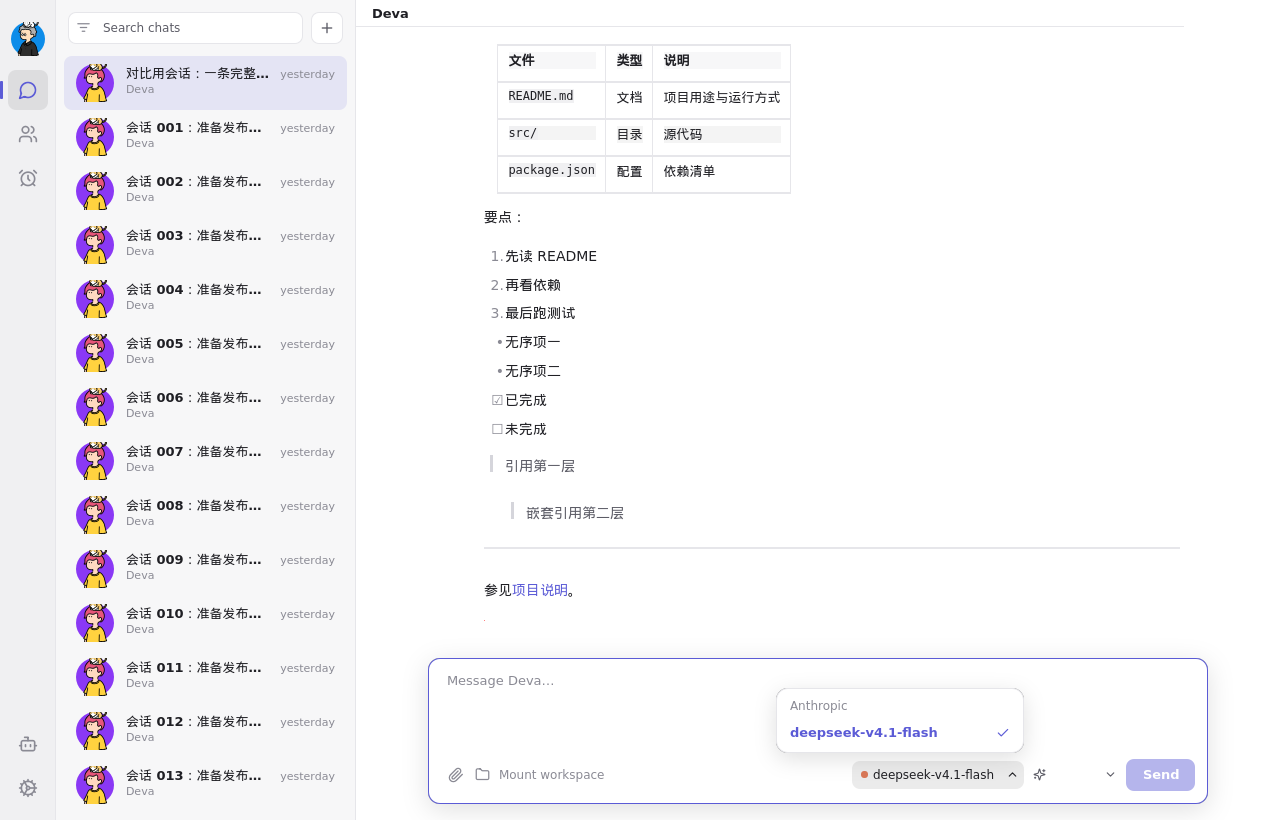
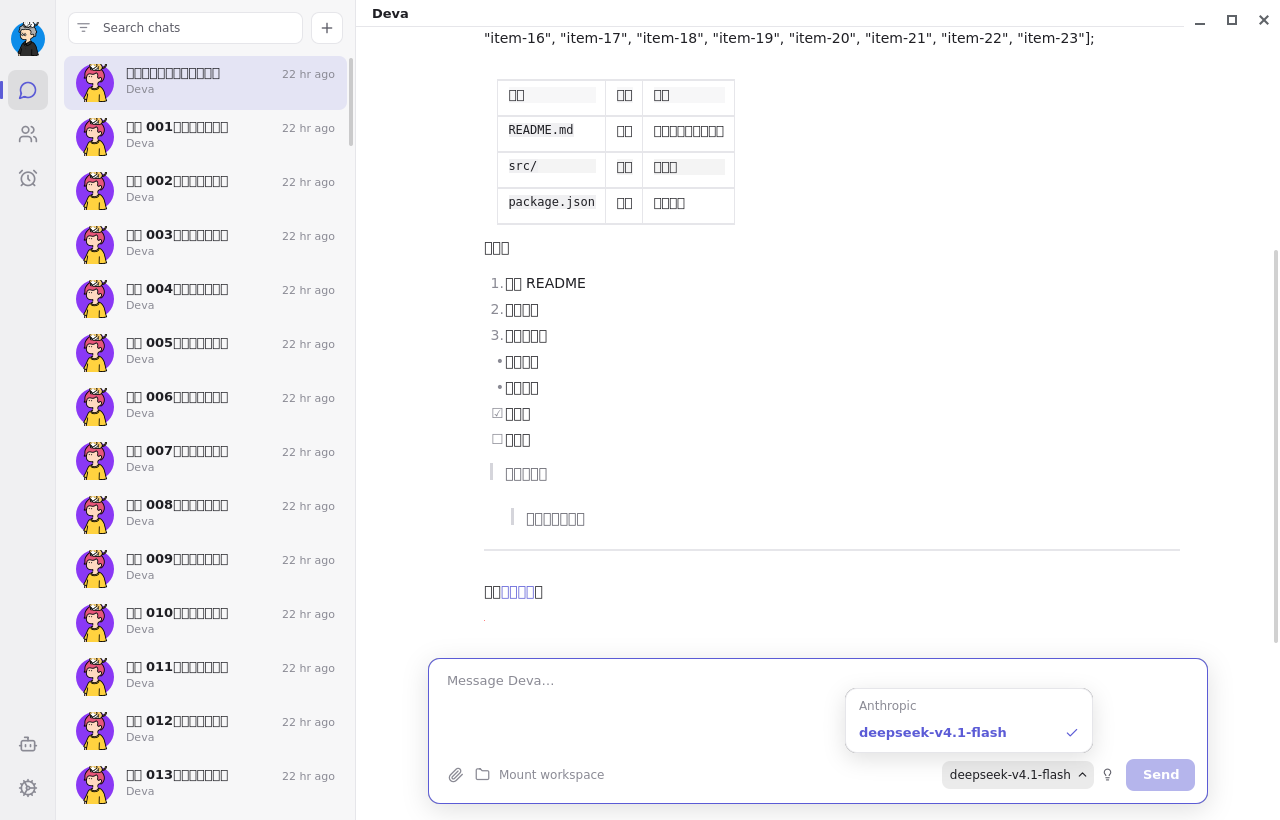
fix(qml): 模型贴片宽度与图标对齐 deva
模型贴片按 ModelPanel.tsx 去掉服务商色点、按内容自适应宽度（label 上限 168px 省略），右缘回到 x≈1094；思考贴片改用 lucide Lightbulb、无箭头、档位为默认时只留图标，并随可用档位显隐。模型弹层仍由 modelChip 的 openPicker("model") 打开、groups 取自 modelMenuGroups()。

diff --git a/app/src/qml/Main.qml b/app/src/qml/Main.qml
@@ -1263,40 +1263,40 @@ ApplicationWindow {
                     objectName: "effortChip"
                     anchors.right: sendBtn.left
                     anchors.rightMargin: 4
-                    width: 94
+                    // 原版 `EffortPicker.tsx:50-62`：`.chip` 内容自适应（padding-left 4 +
+                    // Lightbulb 13 + 可选 gap 5 + 档位名 + padding-right 8），没有箭头；
+                    // 当前档位是「默认」时不写名字（`current !== 'default'` 才渲染 label）。
+                    // `.chip.cf-mp__effort { padding-left: 4px }`（redesign/model-panel.css:15-17）。
+                    width: 4 + 13 + (effortLabelText.visible ? 5 + effortLabelText.implicitWidth : 0) + 8
                     height: 28
                     y: 2
                     radius: Theme.radius
                     readonly property bool open: window.modelPickerOpen && window.pickerMode === "thinking"
-                    // 原版 chip 无边框（CDP 实测 border-width 0）：只有状态点 + 文案 + 箭头。
+                    // 原版 `levels.length === 0` 时整个贴片不出现（EffortPicker.tsx:37）。
+                    visible: ((window.effortMenu && window.effortMenu.options) || []).length > 0
+                    // 原版 chip 无边框（CDP 实测 border-width 0）：只有灯泡 + 可选文案。
                     // 展开态 `.chip.is-open { background: var(--bg-active); color: var(--fg) }`
-                    // （styles/app.css:2874-2877），箭头 `.chip.is-open .chip__caret` 转 180°（:2902）。
+                    // （styles/app.css:2874-2877）。
                     color: open ? Theme.bgActive : "transparent"
                     border.width: 0
                     Icon {
-                        x: 5
+                        x: 4
                         anchors.verticalCenter: parent.verticalCenter
-                        name: IconData.sparkles
+                        // 原版 EffortPicker.tsx:60 用 lucide `Lightbulb`，不是 sparkles。
+                        name: IconData.lightbulb
                         size: 13
                         color: effortChip.open ? Theme.fg : Theme.fgMuted
                     }
                     Text {
-                        x: 23
+                        id: effortLabelText
+                        x: 22
                         anchors.verticalCenter: parent.verticalCenter
                         text: window.effortLabel
+                        visible: text !== ""
                         color: effortChip.open ? Theme.fg : Theme.fgMuted
                         font.family: Theme.sansFamily
                         font.pixelSize: 12
                         font.weight: 500
-                    }
-                    Icon {
-                        anchors.right: parent.right
-                        anchors.rightMargin: 5
-                        anchors.verticalCenter: parent.verticalCenter
-                        name: IconData.chevronDown
-                        size: 13
-                        rotation: effortChip.open ? 180 : 0
-                        color: effortChip.open ? Theme.fg : Theme.fgMuted
                     }
                     MouseArea {
                         anchors.fill: parent
@@ -1323,36 +1323,36 @@ ApplicationWindow {
                     objectName: "modelChip"
                     anchors.right: effortChip.left
                     anchors.rightMargin: 4
-                    width: 172
+                    // 原版 `ModelPanel.tsx:70-79`：模型贴片只写模型名（不放服务商色点），
+                    // `.chip` 内容自适应：padding-left 8 + label（max-width 168，省略号）+
+                    // gap 5 + caret 13 + padding-right 4（redesign/model-panel.css:12-14）。
+                    // 宽度自适应后，贴片右缘与弹层右缘一起回到 deva 的 x≈1094。
+                    width: 8 + Math.min(modelLabelText.implicitWidth, 168) + 5 + 13 + 4
                     height: 28
                     y: 2
                     radius: Theme.radius
                     readonly property bool open: window.modelPickerOpen && window.pickerMode === "model"
-                    // 原版 chip 无边框（CDP 实测 border-width 0）：只有状态点 + 文案 + 箭头。
+                    // 原版 chip 无边框（CDP 实测 border-width 0）：只有文案 + 箭头。
                     // 展开态同 `.chip.is-open`：底 `--bg-active`、文字转 `--fg`、箭头翻转。
                     color: open ? Theme.bgActive : "transparent"
                     border.width: 0
-                    // 状态点 7px #d97757
-                    Rectangle {
-                        x: 9
-                        anchors.verticalCenter: parent.verticalCenter
-                        width: 7
-                        height: 7
-                        radius: 3.5
-                        color: Theme.statusDot
-                    }
                     Text {
-                        x: 21
+                        id: modelLabelText
+                        x: 8
                         anchors.verticalCenter: parent.verticalCenter
+                        // `.chip__label { max-width: 168px; text-overflow: ellipsis }`
+                        // （styles/app.css:2883-2888）。
+                        width: Math.min(implicitWidth, 168)
                         text: window.modelLabel
                         color: modelChip.open ? Theme.fg : Theme.fgMuted
                         font.family: Theme.sansFamily
                         font.pixelSize: 12
                         font.weight: 500
+                        elide: Text.ElideRight
                     }
                     Icon {
                         anchors.right: parent.right
-                        anchors.rightMargin: 5
+                        anchors.rightMargin: 4
                         anchors.verticalCenter: parent.verticalCenter
                         name: IconData.chevronDown
                         size: 13

diff --git a/app/tests/test_qml_model_picker.py b/app/tests/test_qml_model_picker.py
@@ -84,6 +84,12 @@ def test_model_chip_opens_model_menu(qapp, tmp_path, monkeypatch):
         assert _visible(window, "thinkingPicker") is False
         assert _find_item(picker, "modelList").property("visible") is True
         assert _find_item(picker, "thinkingList").property("visible") is False
+        # 模型贴片打开的必须是真实模型列表：模型行在；旧版打包资产硬编码的
+        # "THINKING LEVEL" / Default / Low / High / Max 一个都不能出现。
+        texts = _texts(picker)
+        assert "claude-sonnet-5-5" in texts
+        assert "THINKING LEVEL" not in texts
+        assert not {"Default", "Low", "High", "Max"} & set(texts)
 
         panel = _find_item(picker, "pickerPanel")
         # 原版 min-width 248 / 内容自适应上限 360（styles/app.css:3390-3392）
